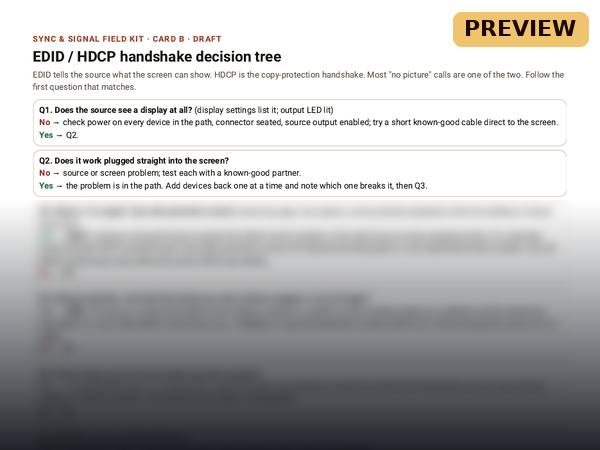
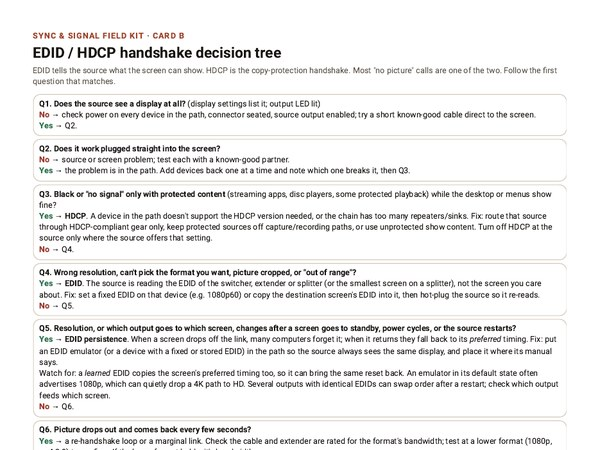
Publish avbydave from DaveHomeAssist/system-by-dave@29a0712ceb63

diff --git a/field-kit/index.html b/field-kit/index.html
@@ -4,10 +4,12 @@
     <meta charset="UTF-8" />
     <meta name="viewport" content="width=device-width, initial-scale=1.0, viewport-fit=cover" />
     <meta http-equiv="Content-Security-Policy" content="default-src 'self'; style-src 'self' 'unsafe-inline'; script-src 'self'; connect-src 'self'; img-src 'self' data:; font-src 'self' data:; object-src 'none'; base-uri 'self'; form-action 'none'" />
-    <title>Sync &amp; Signal Field Kit (draft) | AV by Dave</title>
-    <meta name="description" content="Draft product page for the Sync &amp; Signal Field Kit: a tearing troubleshooting card, an EDID/HDCP decision tree, a genlock checklist and a browser tear-test page. Not on sale yet." />
-    <!-- Draft: not linked from navigation and kept out of search until Dave sets the price and checkout (docs/launch/README.md). -->
-    <meta name="robots" content="noindex,nofollow" />
+    <title>Sync &amp; Signal Field Kit | AV by Dave</title>
+    <meta name="description" content="The Sync &amp; Signal Field Kit: a tearing troubleshooting card, an EDID/HDCP decision tree, a genlock checklist and a browser tear-test page. A $12 digital download from a working AV tech." />
+    <!-- Kept out of search in this file. The publish step (scripts/field_kit_launch.mjs, scripts/gen_sitemap.py)
+         swaps this for index,follow and lists the page in the avbydave.com sitemap only while
+         fieldKit.checkoutOpen is true and the Payment Link is real (docs/launch/checkout.md). -->
+    <meta name="robots" content="index,follow" />
     <link rel="canonical" href="https://avbydave.com/field-kit/" />
     <meta name="theme-color" content="#0C1016" />
     <meta property="og:type" content="website" />
@@ -73,7 +75,7 @@
       <span class="sbd-site-return__current" aria-current="page">Field Kit</span>
     </nav>
     <main id="kit" tabindex="-1">
-      <p class="kit-draft">Draft · not on sale yet</p>
+      <p class="kit-draft" id="kit-status">Checkout opens soon</p>
       <h1>Sync &amp; Signal Field Kit</h1>
       <p class="kit-lede">Four quick references for the moment a picture tears, drops or won't handshake, from a working AV tech. Printable, and sized to read on a phone at the rack.</p>
 
@@ -85,25 +87,25 @@
       </div>
 
       <ul class="kit-grid" aria-label="What's in the kit">
-        <li><img src="img/troubleshooting-card-preview.jpg" width="600" height="450" loading="lazy" decoding="async" alt="Preview of the tearing troubleshooting card: a symptom table, with the rest of the page blurred" /><h2>Tearing troubleshooting card</h2><p>The checks in order, from "is it the source or the display?" to frame rate, vsync/frame lock and reference. One printable page, one phone-sized version.</p></li>
-        <li><img src="img/edid-hdcp-tree-preview.jpg" width="600" height="450" loading="lazy" decoding="async" alt="Preview of the EDID/HDCP decision tree: the first two yes/no questions, with the rest blurred" /><h2>EDID/HDCP decision tree</h2><p>No picture, wrong resolution, or a black screen that flickers back: a yes/no path through the handshake, with what to swap or reset at each branch.</p></li>
-        <li><img src="img/genlock-checklist-preview.jpg" width="600" height="450" loading="lazy" decoding="async" alt="Preview of the genlock and reference checklist: the planning tick boxes, with the rest blurred" /><h2>Genlock and reference checklist</h2><p>Reference type and format, termination, which devices should lock, and how to confirm each one actually did, before doors.</p></li>
+        <li><img src="img/troubleshooting-card-preview.jpg" width="600" height="450" loading="lazy" decoding="async" alt="Page 1 of the tearing troubleshooting card: the symptom table and the first checks" /><h2>Tearing troubleshooting card</h2><p>The checks in order, from "is it the source or the display?" to frame rate, vsync/frame lock and reference. One printable page, one phone-sized version.</p></li>
+        <li><img src="img/edid-hdcp-tree-preview.jpg" width="600" height="450" loading="lazy" decoding="async" alt="Page 1 of the EDID/HDCP decision tree: the opening yes/no questions" /><h2>EDID/HDCP decision tree</h2><p>No picture, wrong resolution, or a black screen that flickers back: a yes/no path through the handshake, with what to swap or reset at each branch.</p></li>
+        <li><img src="img/genlock-checklist-preview.jpg" width="600" height="450" loading="lazy" decoding="async" alt="Page 1 of the genlock and reference checklist: the planning tick boxes" /><h2>Genlock and reference checklist</h2><p>Reference type and format, termination, which devices should lock, and how to confirm each one actually did, before doors.</p></li>
         <li><img src="img/tear-test-preview.jpg" width="600" height="450" loading="lazy" decoding="async" alt="Preview of the browser tear-test page: moving white bars with frame and late-frame counters" /><h2>Browser tear-test page</h2><p>Open it on any screen to see whether the path tears or stutters: moving bars, a frame counter and a refresh-rate readout.</p></li>
       </ul>
 
       <div class="kit-terms" aria-label="Delivery, refunds and licence">
         <section aria-labelledby="kit-delivery-title">
           <h2 id="kit-delivery-title">Delivery</h2>
-          <p data-dave-placeholder>Digital download. Right after payment you're taken to your download page with a link to the files: three PDFs (printable and phone-sized) and the tear-test page. Stripe emails your receipt. Lost the link? Email <a href="mailto:avbydave@gmail.com?subject=Field%20Kit%20link">avbydave@gmail.com</a> with your receipt number and I'll resend it.</p>
-          <p data-dave-placeholder>Payment is handled by Stripe. Your card statement will show AVBYDAVE FIELD KIT.</p>
+          <p>Digital download. Right after you pay, you land on your download page with a link to the files: three PDFs (printable and phone-sized) and the tear-test page. Stripe emails your receipt. Lost the link? Email <a href="mailto:avbydave@gmail.com?subject=Field%20Kit%20link">avbydave@gmail.com</a> with your receipt number and I'll resend it.</p>
+          <p>Payment is handled by Stripe, so your card details never reach me. Your card statement will show <strong>AVBYDAVE FIELD KIT</strong>.</p>
         </section>
         <section aria-labelledby="kit-refund-title">
           <h2 id="kit-refund-title">Refunds</h2>
-          <p data-dave-placeholder>If the kit doesn't help, email <a href="mailto:avbydave@gmail.com?subject=Field%20Kit%20refund">avbydave@gmail.com</a> within 14 days of buying it and I'll refund you in full; no need to explain. The refund goes back to the card you paid with; banks usually take 5–10 business days to show it.</p>
+          <p>If the kit doesn't help, email <a href="mailto:avbydave@gmail.com?subject=Field%20Kit%20refund">avbydave@gmail.com</a> within 14 days of buying it and I'll refund you in full; no need to explain. The refund goes back to the card you paid with; banks usually take 5–10 business days to show it.</p>
         </section>
         <section aria-labelledby="kit-licence-title">
           <h2 id="kit-licence-title">Licence</h2>
-          <p data-dave-placeholder>For you and your crew. Use the files on your own shows and print as many copies as you need. Please don't resell, repost or publicly share the files or your download link. The kit is general troubleshooting guidance, not a manufacturer procedure; follow your gear's manual and your venue's rules.</p>
+          <p>For you and your crew. Use the files on your own shows and print as many copies as you need. Please don't resell, repost or publicly share the files or your download link. The kit is general troubleshooting guidance, not a manufacturer procedure; follow your gear's manual and your venue's rules.</p>
         </section>
       </div>
 

diff --git a/js/sbd-launch-config.js b/js/sbd-launch-config.js
@@ -1,9 +1,9 @@
 /* Launch configuration for the AV by Dave Sync & Signal Field Kit
-   (docs/launch/README.md). Every external service is off until Dave picks it
-   and creates the account. Leaving a value empty keeps that feature in its safe
-   fallback. Each feature turns on by changing only its block here; the page
-   CSPs already allow the listed providers' form/checkout addresses.
-   Before turning anything on, read docs/launch/email.md or
+   (docs/launch/README.md). Analytics stays off. Field Kit checkout is the
+   checkoutOpen switch in the fieldKit block. Leaving a value empty keeps that
+   feature in its safe fallback. Each feature turns on by changing only its
+   block here; the page CSPs already allow the listed providers' form/checkout
+   addresses. Before turning anything on, read docs/launch/email.md or
    docs/launch/checkout.md (privacy policy, CHANGELOG, test steps). */
 window.SBD_LAUNCH = {
   // Analytics stays OFF (Dave's decision, 2026-10-18). null keeps
@@ -19,21 +19,21 @@ window.SBD_LAUNCH = {
   // mode: 'link' (opens checkout; works with the current CSP) or 'overlay'
   //       (Gumroad / Lemon Squeezy pop-up; needs the CSP line in checkout.md,
   //       and falls back to the link if the script is blocked).
-  // Until provider and url are both valid, checkout stays disabled.
+  // Checkout stays closed until checkoutOpen is true AND provider and url
+  // are both valid. checkoutOpen is the one line that opens checkout.
   fieldKit: {
     // Chosen: Stripe Payment Links (2026-10-19), on a SEPARATE AV by Dave Stripe
-    // account (Dave, 2026-10-23), not the System by Dave one. The page says the
-    // card statement will show AVBYDAVE FIELD KIT. The delivery, refund, and
-    // licence paragraphs still carry data-dave-placeholder, so the buy button
-    // stays disabled even after the Payment Link below is real. Replace the
-    // placeholder with that account's Payment Link, e.g.
-    // 'https://buy.stripe.com/xxxxxxxx'. Until it's a valid buy.stripe.com link
-    // and those markers are removed, checkout stays closed.
-    checkout: { provider: 'stripe', url: '[DAVE: Stripe Payment Link]', mode: 'link' },
+    // account (Dave, 2026-10-23), not the System by Dave one. The page names
+    // the statement descriptor AVBYDAVE FIELD KIT. The Payment Link below is
+    // the live $12 link. checkoutOpen is the switch (docs/launch/checkout.md):
+    // true opens that link and lets publish index /field-kit/; false keeps
+    // "Checkout opens soon", does not point the Buy button at the link, and
+    // leaves the page noindex.
+    checkoutOpen: true,
+    checkout: { provider: 'stripe', url: 'https://buy.stripe.com/cNifZg4N98oy776fKgdEs00', mode: 'link' },
     // Price buyers see (Dave, 2026-10-30); the Stripe price must match it.
     // A [DAVE: …] placeholder, 'Price TBD' or '' shows "Price TBD" and keeps
-    // checkout closed. A real price alone does not open checkout: the
-    // Payment Link and the page's DRAFT blocks still gate it.
+    // checkout closed. A real price alone does not open checkout.
     priceLabel: '$12',
     // After-payment download page (field-kit/thanks/, docs/launch/checkout.md).
     // The share link to the kit files stays in Stripe's Payment Link settings;
@@ -42,6 +42,6 @@ window.SBD_LAUNCH = {
     // The page shows the download button and the "payment went through" line
     // only for a link whose hash is listed. Empty keeps both off, so buyers
     // see "email me". List the old and new hash while replacing a link.
-    download: { sha256: [] }
[1 lines of base64/hex data omitted]
   }
 };

diff --git a/field-kit/field-kit.js b/field-kit/field-kit.js
@@ -1,10 +1,10 @@
-/* Field Kit draft page (docs/launch/checkout.md).
-   Checkout stays disabled until window.SBD_LAUNCH.fieldKit.checkout names a
-   provider and a valid link on that provider's site (js/sbd-checkout.js), AND
-   every Dave-approval block (data-dave-placeholder: delivery, statement
-   descriptor, refunds, licence) has been approved and its marker
-   removed, AND fieldKit.priceLabel is a real price. That interlock keeps the page from selling before the terms exist.
-   Events go to the no-op dispatcher (js/sbd-events.js). */
+/* Field Kit page (docs/launch/checkout.md).
+   Checkout stays disabled until fieldKit.checkoutOpen is true, AND
+   fieldKit.checkout names a provider and a valid link on that provider's site
+   (js/sbd-checkout.js), AND no block is still marked data-dave-placeholder,
+   AND fieldKit.priceLabel is a real price. checkoutOpen is the switch: false
+   leaves "Checkout opens soon" in place and does not point the Buy button at
+   the Payment Link. Events go to the no-op dispatcher (js/sbd-events.js). */
 (function () {
   'use strict';
   var cfg = (window.SBD_LAUNCH && window.SBD_LAUNCH.fieldKit) || {};
@@ -30,7 +30,9 @@
   var buy = document.getElementById('kit-buy');
   var off = document.getElementById('kit-buy-disabled');
   var note = document.getElementById('kit-buy-note');
-  if (!checkout || !buy) return;
+  // The one switch. false keeps the static "Checkout opens soon" state and
+  // never writes the Payment Link onto the Buy button.
+  if (cfg.checkoutOpen !== true || !checkout || !buy) return;
   if (!priceSet) {
     if (window.console) console.warn('Field Kit checkout is configured but the price is still a placeholder; checkout stays closed.');
     return;
@@ -42,6 +44,8 @@
   buy.href = checkout.url;
   buy.hidden = false;
   if (off) off.hidden = true;
+  var status = document.getElementById('kit-status');
+  if (status) status.hidden = true;
   if (note) note.textContent = 'Secure checkout by ' + checkout.label + '. Your download link appears right after payment.';
   buy.addEventListener('click', function () { events.track('kit_click', { placement: 'field-kit', provider: checkout.provider }); });
 

diff --git a/frame-sync/index.html b/frame-sync/index.html
@@ -1,0 +1,22 @@
+<!doctype html>
+<html lang="en">
+<head>
+<meta charset="utf-8">
+<meta name="viewport" content="width=device-width, initial-scale=1">
+<meta http-equiv="Content-Security-Policy" content="default-src 'none'; style-src 'unsafe-inline'; script-src 'unsafe-inline'; base-uri 'none'; form-action 'none'">
+<title>Frame sync demo | AV by Dave</title>
+<meta name="description" content="The frame sync demo lives at systembydave.com/demos/frame-sync.html.">
+<link rel="canonical" href="https://systembydave.com/demos/frame-sync.html">
+<meta name="robots" content="noindex,follow">
+<meta name="theme-color" content="#0C1016">
+<meta http-equiv="refresh" content="0; url=https://systembydave.com/demos/frame-sync.html">
+<style>:root{color-scheme:light dark}body{font-family:-apple-system,BlinkMacSystemFont,"Segoe UI",Arial,sans-serif;background:#fff;color:#1b1b1b;display:grid;place-items:center;min-height:100vh;margin:0;padding:24px;text-align:center}main{max-width:34rem}a{color:#9a4525;display:inline-block;padding:12px 4px}@media (prefers-color-scheme:dark){body{background:#0f1115;color:#eee}a{color:#f0a37f}}</style>
+<!-- Short link from the frame sync reel (avbydave.com/frame-sync/). Keeps any utm_ query and hash. -->
+<script>location.replace("https://systembydave.com/demos/frame-sync.html" + location.search + location.hash);</script>
+</head>
+<body>
+<main>
+<p>The frame sync demo lives at <a href="https://systembydave.com/demos/frame-sync.html">systembydave.com/demos/frame-sync.html</a>. Redirecting.<br><a href="/">AV by Dave tools</a></p>
+</main>
+</body>
+</html>
